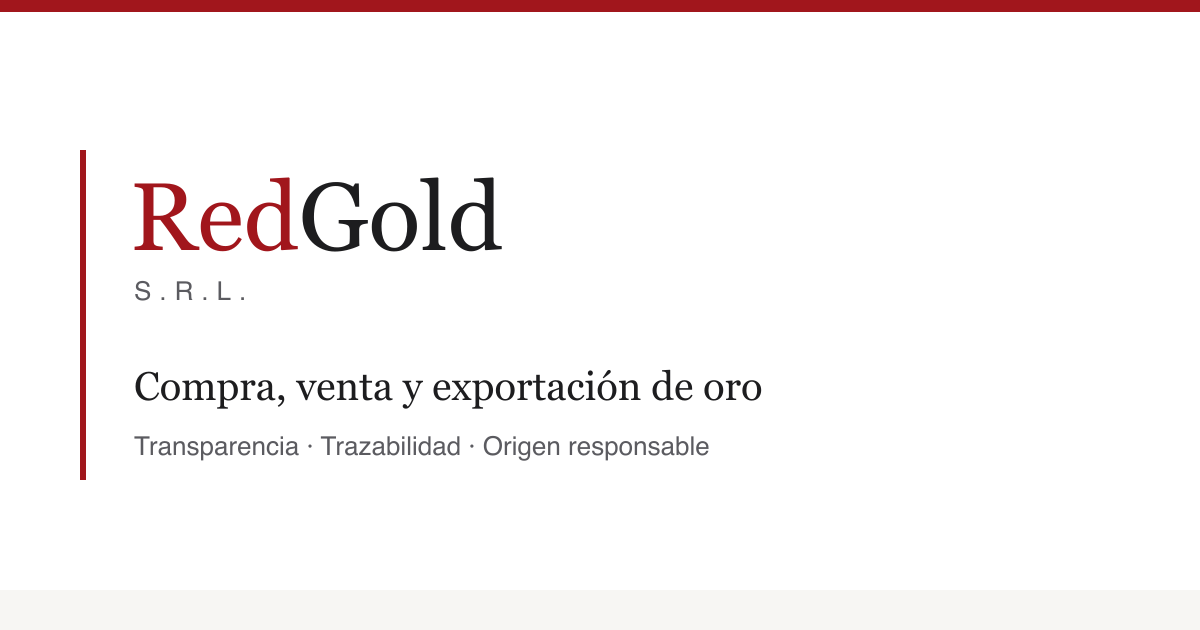
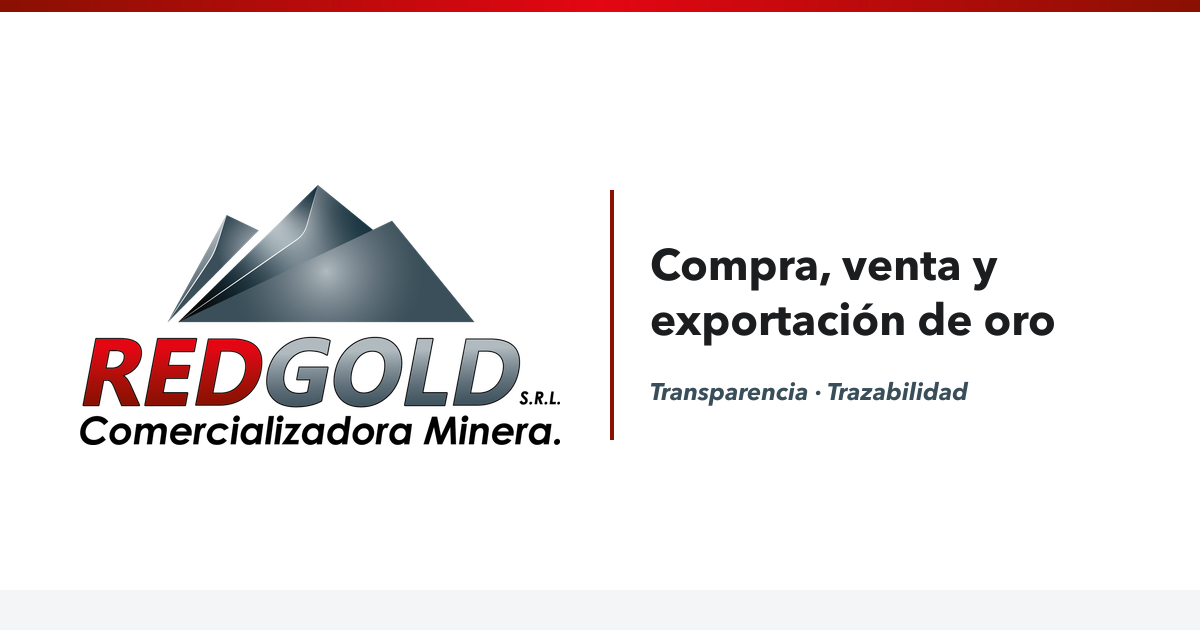
Aplicar manual de marca y nuevo texto de portada
- Logo oficial en encabezado (fondo claro) y pie de página (fondo
  oscuro), optimizado con astro:assets.
- Paleta institucional: rojo #8a1002 / #e30613, gris pizarra #394e59,
  gris metálico #b0bac0.
- Tipografías del manual (Gadugi, Century Gothic Bold Italic) con
  equivalentes libres autoalojados (Open Sans, Poppins).
- Favicon e imagen para redes con los colores y el logo oficiales.
- Portada con texto más institucional.
- El manual de marca (brand/) queda fuera de Git: contiene
  tipografías con licencia y archivos fuente.

diff --git a/src/styles/global.css b/src/styles/global.css
@@ -1,32 +1,42 @@
 @import "tailwindcss";
 
 @theme {
-  --font-serif: "Libre Baskerville", ui-serif, Georgia, serif;
-  --font-sans: "Inter Variable", "Inter", ui-sans-serif, system-ui, sans-serif;
+  /* Tipografías del manual de marca. Gadugi y Century Gothic son fuentes con
+     licencia (Microsoft): se usan si el visitante las tiene instaladas y, si no,
+     sus equivalentes libres autoalojados. */
+  --font-heading: "Gadugi", "Open Sans Variable", "Open Sans", ui-sans-serif, system-ui, sans-serif;
+  --font-sans: "Gadugi", "Open Sans Variable", "Open Sans", ui-sans-serif, system-ui, sans-serif;
+  --font-display: "Century Gothic", "Poppins", ui-sans-serif, system-ui, sans-serif;
 
-  --color-ink: #1d1d1f;
-  --color-muted: #5b5b60;
-  --color-line: #e4e2de;
-  --color-paper: #f7f6f3;
-  --color-red: #a1161c;
-  --color-red-dark: #7e1015;
+  /* Paleta institucional (manual de marca) */
+  --color-red: #8a1002;        /* Rojo oscuro  C0 M100 Y100 K50 */
+  --color-red-bright: #e30613; /* Rojo         C0 M100 Y100 K0  */
+  --color-red-dark: #6c0c01;
+  --color-steel: #b0bac0;      /* Gris metálico */
+  --color-slate: #394e59;      /* Gris pizarra  */
+  --color-ink: #1b1d1f;        /* Negro */
+  --color-muted: #4e5f68;
+  --color-line: #dfe4e7;
+  --color-paper: #f3f5f6;
 }
 
 @layer base {
   html { scroll-behavior: smooth; }
   body { @apply bg-white text-ink font-sans antialiased; }
-  h1, h2, h3 { @apply font-serif text-ink; }
+  h1, h2, h3 { @apply font-heading font-bold tracking-tight text-ink; }
 }
 
 @layer components {
   .container-x { @apply mx-auto w-full max-w-6xl px-4 sm:px-6; }
-  .eyebrow { @apply text-xs font-semibold uppercase tracking-[0.22em] text-red; }
-  .rule { @apply h-px w-12 bg-red; }
+  .eyebrow { @apply font-display text-xs font-bold italic uppercase tracking-[0.18em] text-red; }
+  /* Texto complementario de marca: Century Gothic Bold Italic */
+  .tagline { @apply font-display font-bold italic; }
+  .rule { @apply h-[3px] w-14 bg-gradient-to-r from-red to-red-bright; }
   .btn-primary {
-    @apply inline-flex items-center justify-center bg-red px-6 py-3 text-sm font-medium tracking-wide text-white transition hover:bg-red-dark;
+    @apply inline-flex items-center justify-center bg-red px-6 py-3 text-sm tracking-wide font-semibold text-white transition hover:bg-red-bright;
   }
   .btn-outline {
-    @apply inline-flex items-center justify-center border border-ink/80 px-6 py-3 text-sm font-medium tracking-wide text-ink transition hover:border-red hover:text-red;
+    @apply inline-flex items-center justify-center border border-slate px-6 py-3 text-sm font-semibold tracking-wide text-slate transition hover:border-red hover:text-red;
   }
   .card { @apply border border-line bg-white p-8; }
 }
